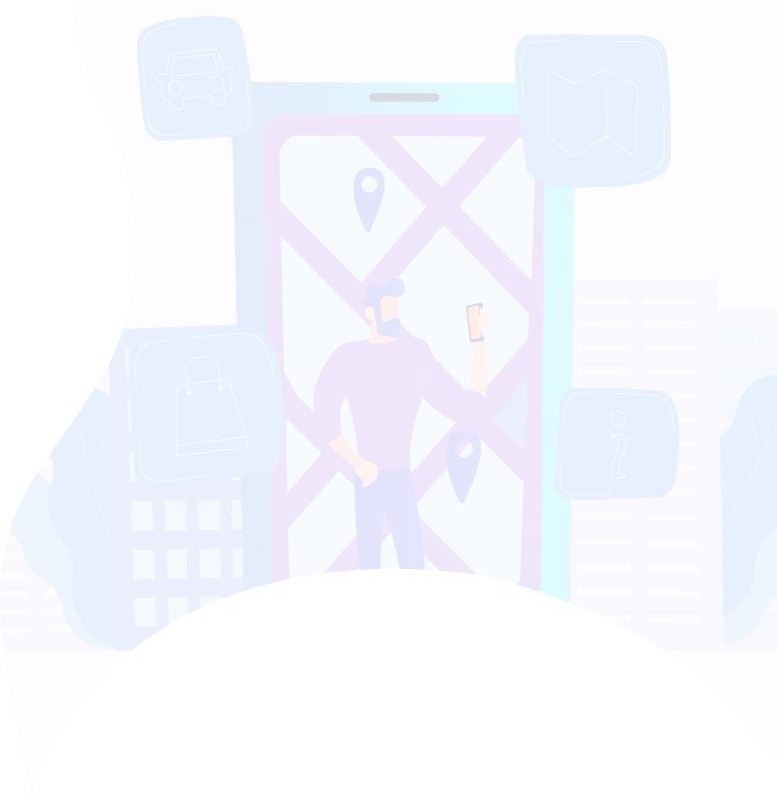
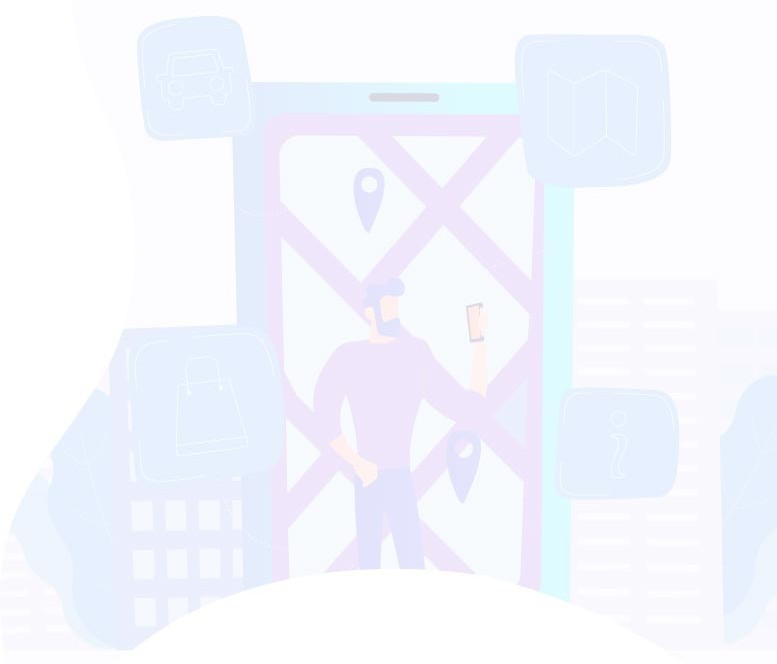
Edited CSS

diff --git a/src/views/HomeView.vue b/src/views/HomeView.vue
@@ -175,7 +175,7 @@
           <div class="col-md-6 d-flex">
             <div class="me-3 fs-3">🔧</div>
             <div>
-              <h5 class="text-blue">Solusi Web yang Disesuaikan</h5>
+              <h5 class="text-blue text-bold">Solusi Web yang Disesuaikan</h5>
               <p class="text-black">
                 Kami merancang aplikasi yang benar-benar sesuai dengan karakter dan kebutuhan bisnis
                 Anda.
@@ -186,7 +186,7 @@
           <div class="col-md-6 d-flex">
             <div class="me-3 fs-3">💡</div>
             <div>
-              <h5 class="text-blue">Tim Profesional & Berkomitmen</h5>
+              <h5 class="text-blue text-bold">Tim Profesional & Berkomitmen</h5>
               <p class="text-black">
                 Fokus pada kualitas, hasil rapi, responsif, dan tepat waktu adalah komitmen kami di
                 setiap proyek.
@@ -197,7 +197,7 @@
           <div class="col-md-6 d-flex">
             <div class="me-3 fs-3">🔁</div>
             <div>
-              <h5 class="text-blue">Garansi Revisi</h5>
+              <h5 class="text-blue text-bold">Garansi Revisi</h5>
               <p class="text-black">
                 Kami memberikan garansi revisi sesuai kesepakatan—karena kepuasan Anda adalah
                 prioritas utama kami.
@@ -208,7 +208,7 @@
           <div class="col-md-6 d-flex">
             <div class="me-3 fs-3">🛠</div>
             <div>
-              <h5 class="text-blue">Free Maintenance</h5>
+              <h5 class="text-blue text-bold">Free Maintenance</h5>
               <p class="text-black">
                 Kami tetap mendampingi setelah aplikasi selesai dengan layanan perawatan gratis di
                 awal masa pakai.
@@ -219,7 +219,7 @@
           <div class="col-md-6 d-flex">
             <div class="me-3 fs-3">🤝</div>
             <div>
-              <h5 class="text-blue">Komunikasi Terbuka</h5>
+              <h5 class="text-blue text-bold">Komunikasi Terbuka</h5>
               <p class="text-black">
                 Anda terlibat dalam proses sejak awal—kami percaya kolaborasi menghasilkan solusi
                 yang lebih baik.
@@ -230,7 +230,7 @@
           <div class="col-md-6 d-flex">
             <div class="me-3 fs-3">📊</div>
             <div>
-              <h5 class="text-blue">Hasil Terukur</h5>
+              <h5 class="text-blue text-bold">Hasil Terukur</h5>
               <p class="text-black">
                 Fokus kami bukan hanya menyelesaikan proyek, tapi menciptakan dampak nyata dan
                 terukur untuk bisnis Anda.

diff --git a/public/assets/css/templatemo-chain-app-dev.css b/public/assets/css/templatemo-chain-app-dev.css
@@ -206,6 +206,9 @@ p {
 .text-blue {
   color: #036ece !important;
 }
+.text-bold {
+  font-weight: bold !important;
+}
 img {
   width: 100%;
   overflow: hidden;
@@ -1237,7 +1240,7 @@ About Us
 */
 
 .about-us {
-  padding-top: 130px;
+  padding-top: 80px;
   position: relative;
 }
 
@@ -1296,7 +1299,7 @@ About Us
 .about-us:after {
   background-image: url(../images/about-bg.jpg);
   width: 777px;
-  height: 1132px;
+  height: 664px;
   content: '';
   position: absolute;
   background-repeat: no-repeat;
